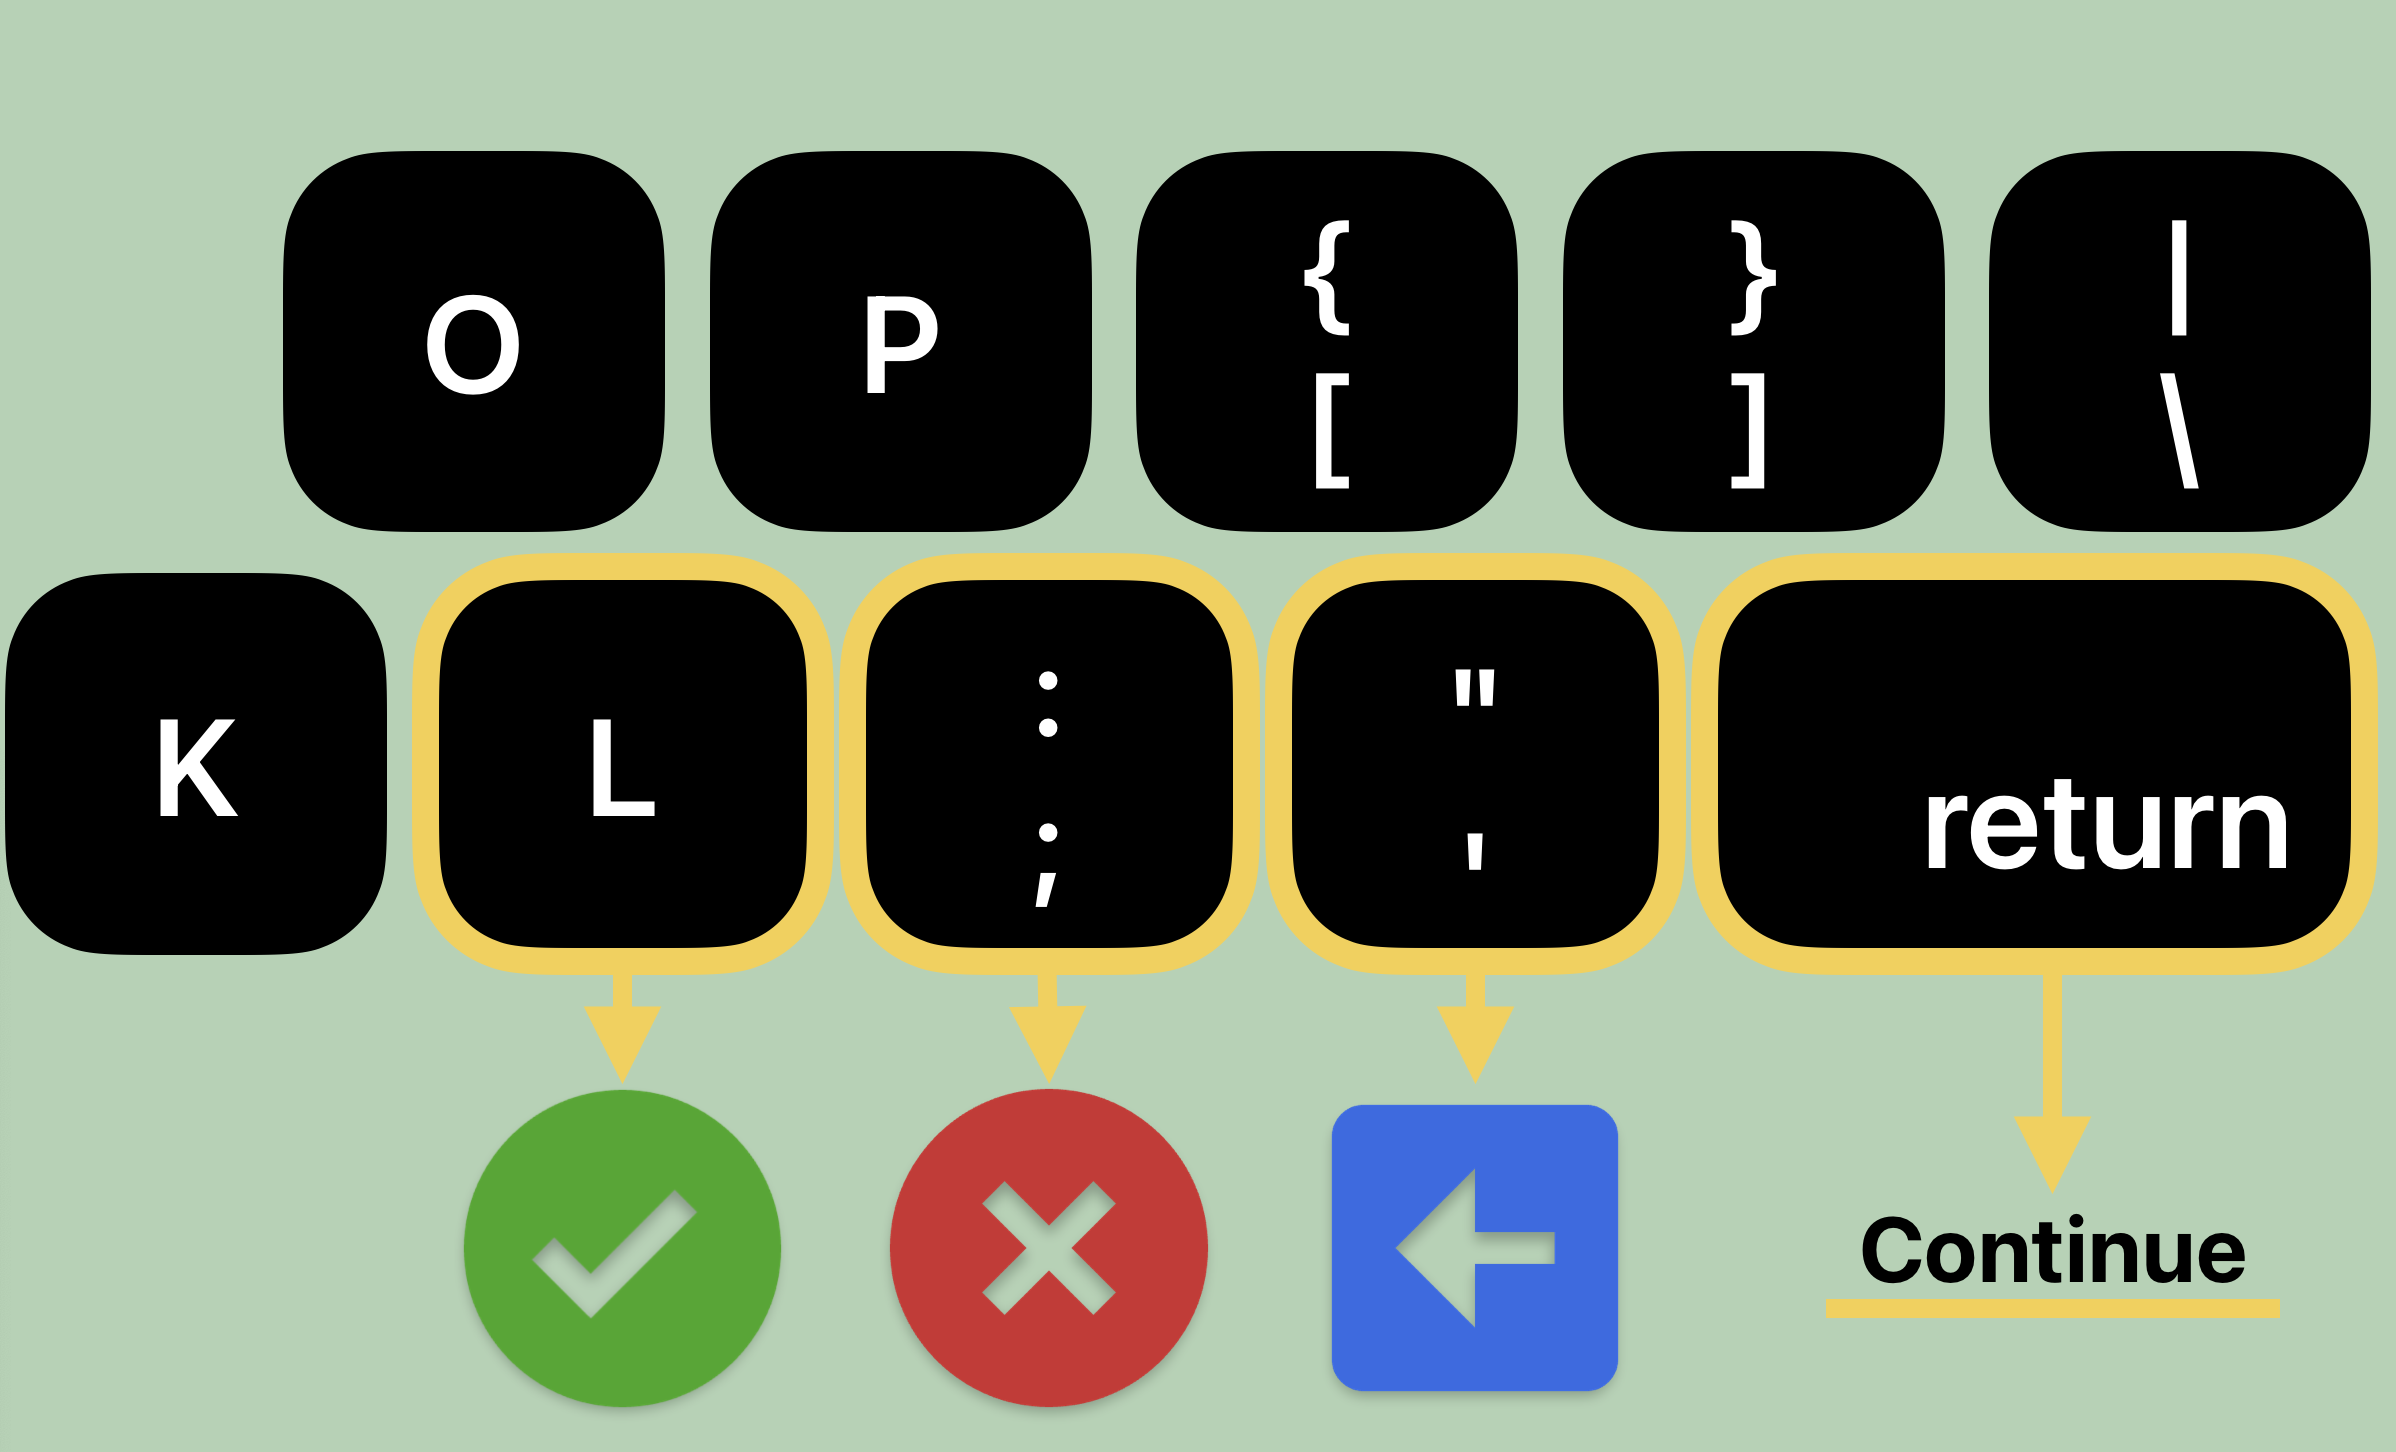
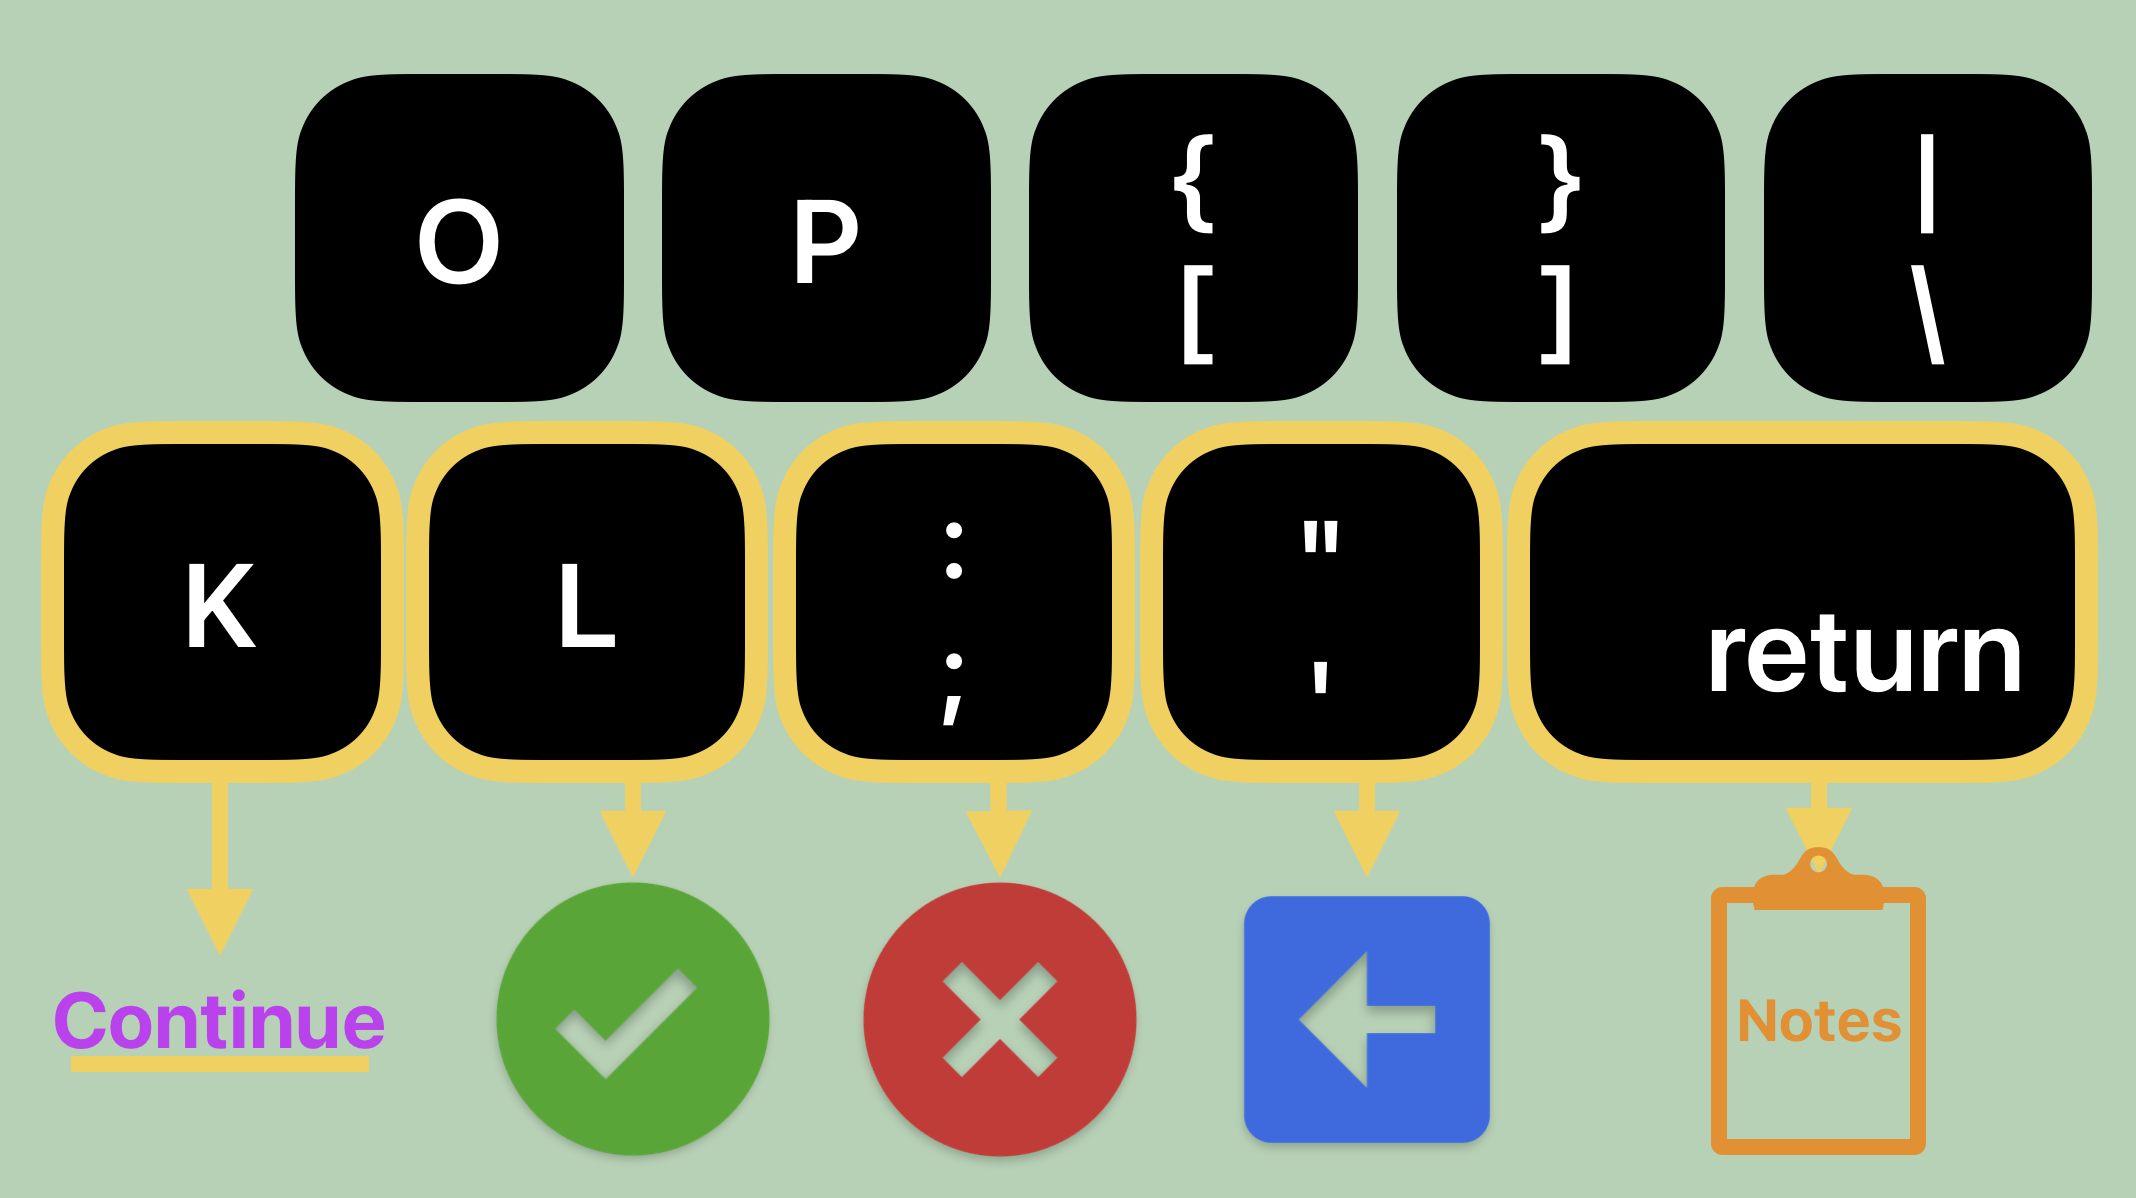
Changed the forward key to be [K], and limited the usage of return/enter key. Updated tutorial to match.

diff --git a/QtFiles/WildSort.qml b/QtFiles/WildSort.qml
@@ -58,6 +58,7 @@ Window {
         function onShowKeysTutorial(){
             //keysTutorial_Text.text = text
             keysTutorial_Area.visible = true
+            photo.forceActiveFocus()
         }
         function onHideKeysTutorial(){
             keysTutorial_Area.visible = false
@@ -130,14 +131,14 @@ Window {
 
                     Rectangle {
                         id: keysTutorial_Rect
-                        border.color:"orange"
+                        border.color:"green"
                         Layout.preferredHeight: keysTutorial_Text.implicitHeight + 20 
                         Layout.preferredWidth: keysTutorial_Text.implicitWidth + 20
                         Layout.alignment: Qt.AlignCenter
 
                         Text {
                             id: keysTutorial_Text
-                            text: "Use the <b><font color=\"green\">[L]</font></b> and <b><font color=\"red\">[;]</font></b> keys as <b><font color=\"green\">Yes</font></b> and <b><font color=\"red\">No</font></b>, to Sort the Photos.<br><br>Use the <b><font color=\"blue\">[']</font></b> key to go <b><font color=\"blue\">Back</font></b> to the last Photo.<br><br>Press the <b>[return]</b> or <b>[Enter]</b> key now to start sorting."
+                            text: "Use the <b><font color=\"green\">[L]</font></b> and <b><font color=\"red\">[;]</font></b> keys as <b><font color=\"green\">Yes</font></b> and <b><font color=\"red\">No</font></b>, to Sort the Photos.<br><br>Use the <b><font color=\"blue\">[']</font></b> key to go <b><font color=\"blue\">Back</font></b> to the last Photo.<br><br>Use the <b><font color=\"#E19133\">[return]</font></b> or <b><font color=\"#E19133\">[Enter]</font></b> key to open <b><font color=\"#E19133\">Notes</font></b>.<br><br>Press the <b><font color=\"#B942EC\">[K]</font></b> key to start sorting."
                             wrapMode: Text.WordWrap
                             anchors.horizontalCenter: parent.horizontalCenter
                             anchors.verticalCenter: parent.verticalCenter
@@ -265,7 +266,7 @@ Window {
                 
                 Rectangle {
                     id: nextCategoryArea
-                    border.color:"purple"
+                    border.color:"#B942EC"
                     height: nextCategoryText.height + nextCategoryTextPrepend.height + 18
                     width: page.width * 0.20 + 20
                     anchors.verticalCenter: parent.verticalCenter
@@ -284,7 +285,7 @@ Window {
 
                         Text {
                             id: nextCategoryTextPrepend
-                            text: qsTr("Press <b>[return]</b> or <b>[Enter]</b> key to continue")
+                            text: qsTr("Press the <b><font color=\"#B942EC\">[K]</font></b> key to continue")
                             font.pointSize: 14
                             leftPadding: 5
                         }
@@ -305,19 +306,31 @@ Window {
                         slotBridge.choiceMade("back"); 
                     }
 
-                    if (event.key == Qt.Key_Return || event.key == Qt.Key_Enter) 
+                    if (event.key == Qt.Key_K) 
                     {
-                        if (cameraAndLocationLayout.visible
-                            || nextCategoryArea.visible
+                        if (nextCategoryArea.visible
                             || keysTutorial_Area.visible)
                         {
-                            console.log("ABCD")
+                            slotBridge.choiceMade("continue")
+                        }
+                    }
+
+                    if (event.key == Qt.Key_Return || event.key == Qt.Key_Enter) 
+                    {
+                        if (nextCategoryArea.visible
+                            || keysTutorial_Area.visible)
+                        {
                             slotBridge.choiceMade("continue")
                         }
                         else if (folderSelectionArea.visible)
                         {
                             folderDialog.open();
                             folderSelectionArea.visible = false;
+                        }
+                        else if (cameraAndLocationLayout.visible)
+                        {
+                            slotBridge.setCameraAndLocation(cameraField.text, locationField.text)
+                            slotBridge.choiceMade("continue")
                         }
                         else if (!notesPopup.opened)
                         {

diff --git a/DataHandling/reportBuilder.py b/DataHandling/reportBuilder.py
@@ -43,7 +43,7 @@ Converts all relevant data into a human-readable and visualization-friendly repo
     if os.path.exists(target):
         __convertToHiddenBackup(target)
 
-    printReport(report.headers, rows, target)
+    __printReport(report.headers, rows, target)
     #TODO: also extend to a 'cameraTrapData_AllData_doNOTedit' in the application folder
 
 
@@ -108,7 +108,7 @@ def __cleanDataColumn(dataColumn):
 
 
 
-def printReport(headers, data, filename):
+def __printReport(headers, data, filename):
     with open(filename, 'w', encoding='UTF8', newline='') as f:
         writer = csv.writer(f)
 

diff --git a/ImageSorting/ISortLogic.py b/ImageSorting/ISortLogic.py
@@ -245,6 +245,8 @@ def folderChosen(folderURL):
     camera = os.path.basename(folderURL) # Camera name is assumed to be the name of the folder
     ui.set_CamAndLocForm(str(camera), reportBuilder.location)
 
+    reportBuilder.folderOfPhotos = folderURL
+
     global edgeCase
     edgeCase = EdgeCase.SHOWING_CAMERA_AND_LOCATION_FORM
 

diff --git a/ImageSorting/CallsToUI.py b/ImageSorting/CallsToUI.py
@@ -36,6 +36,7 @@ def set_Photo(photoURL):
     if photoURL == None:
         photoURL = ''
     emitter.updatePhoto.emit(photoURL)
+    #print(f'photo: {photoURL}')
 
 def set_PhotoCounter(photoCounter):
     if photoCounter == None:
